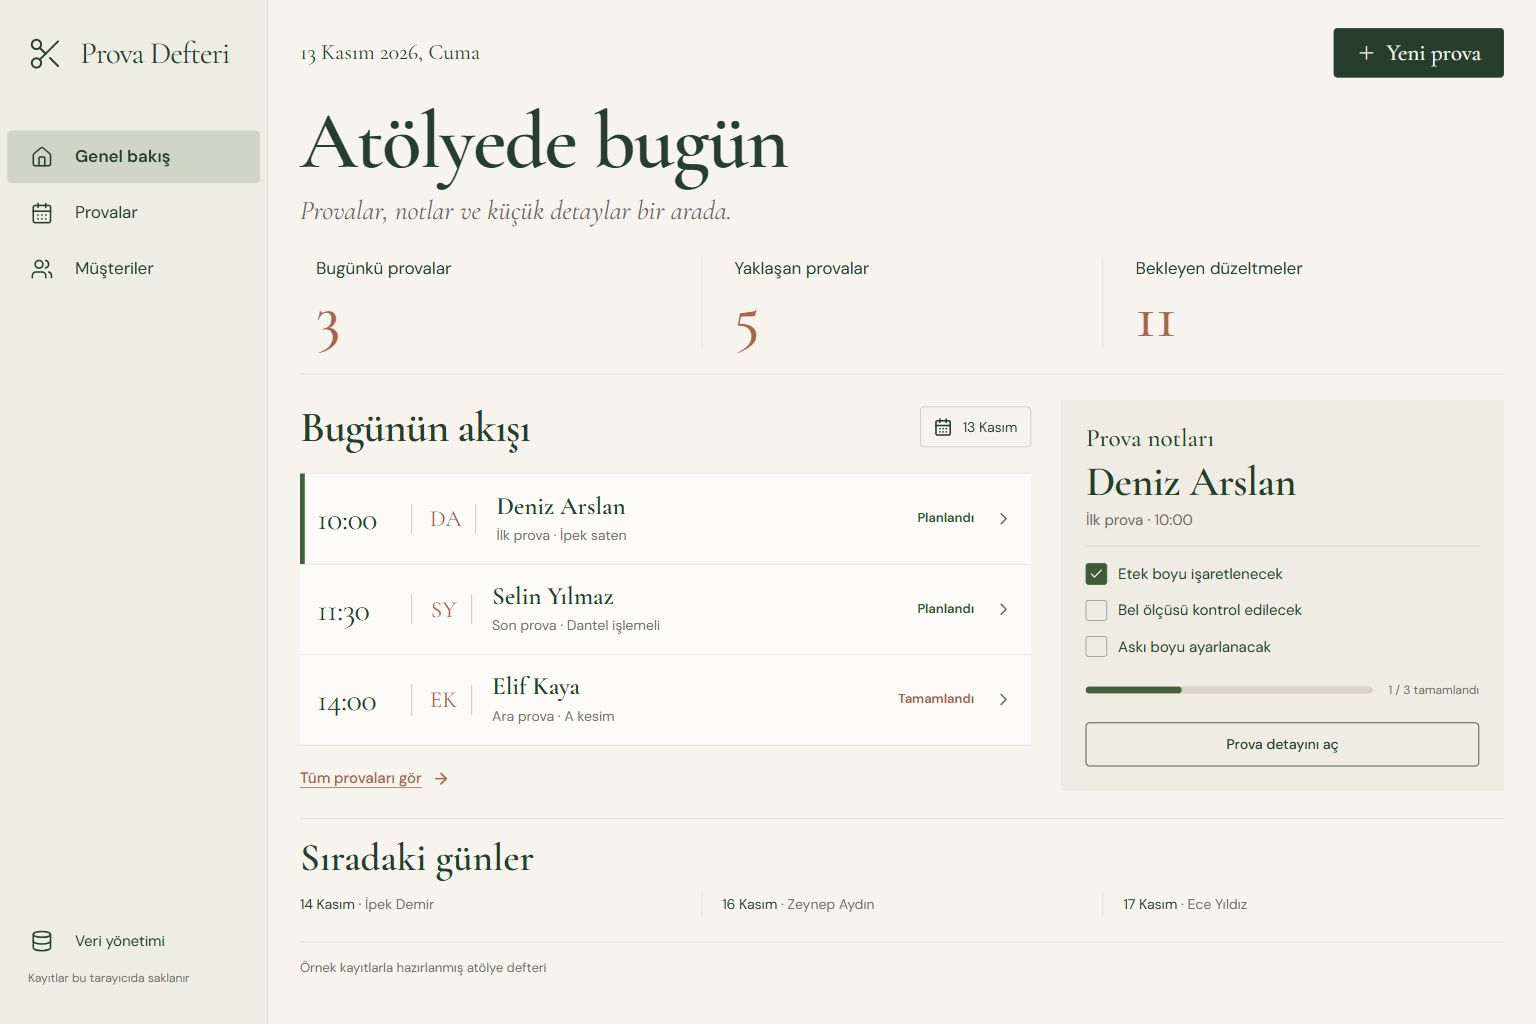
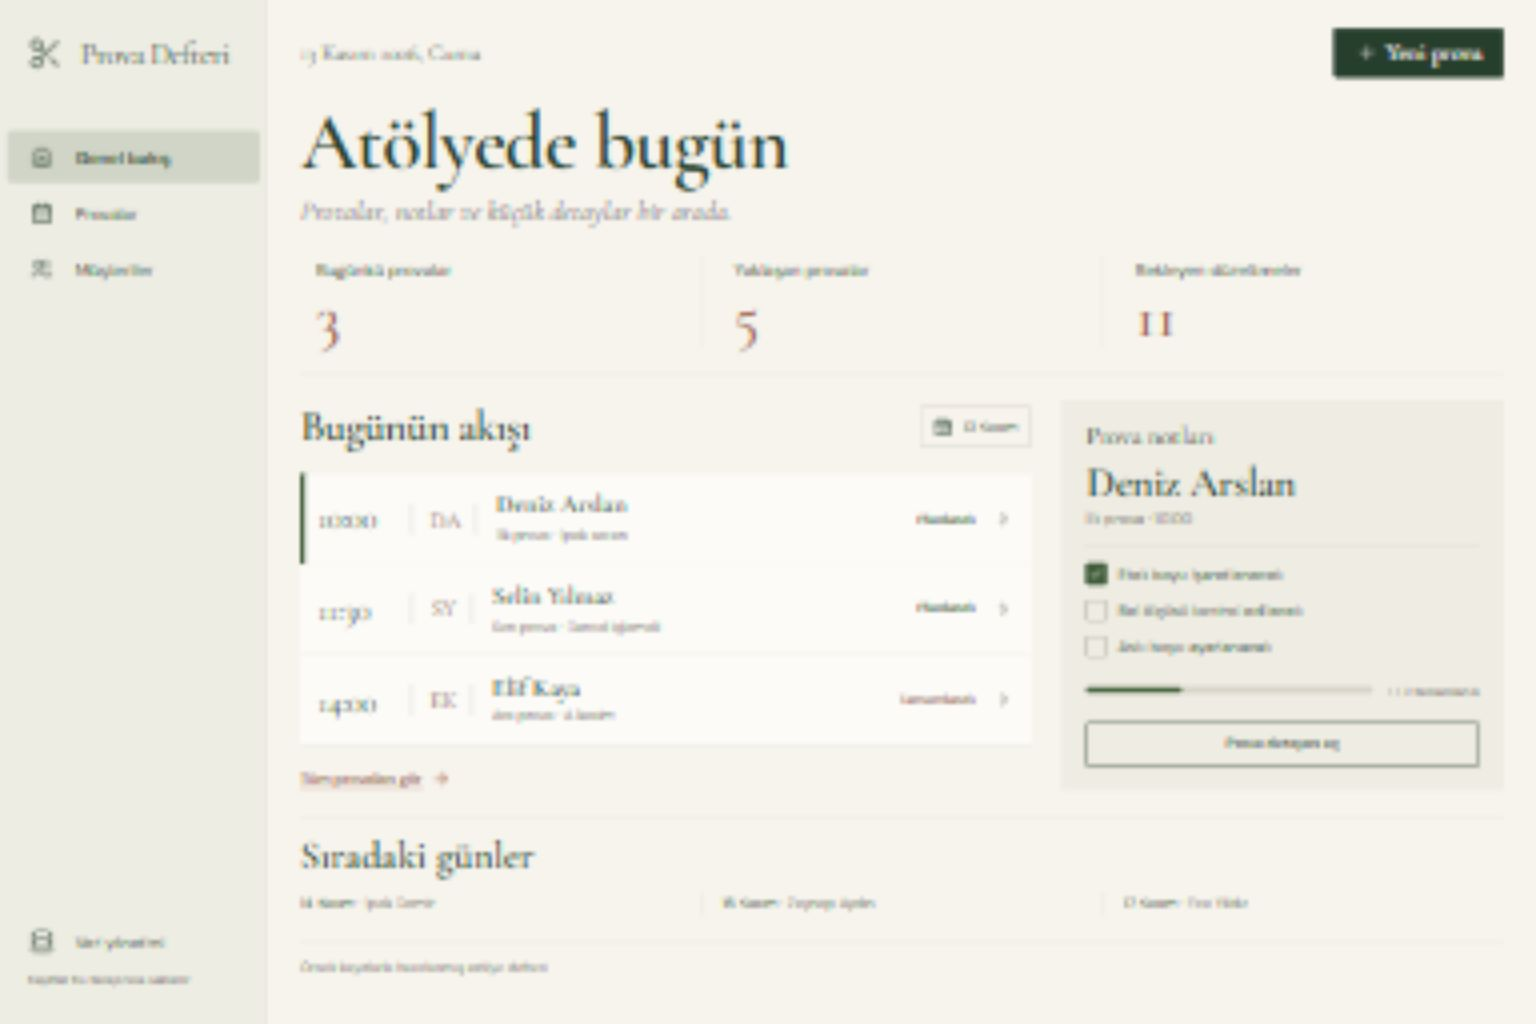
Update Site source

diff --git a/docs/TESLIM_KONTROLU.md b/docs/TESLIM_KONTROLU.md
@@ -1,6 +1,6 @@
 # Prova Defteri - Yönerge ve Teslim Kontrolü
 
-Bu belge, Web Geliştirme ve Yapay Zekâ proje yönergesinin gerekliliklerini somut teslimlere eşler. Dosya yolları proje köküne göredir. **Yerel uygulama, otomatik kontroller ve ekran görüntüleri hazırdır.** GitHub deposuna kaynak aktarımı ve canlı yayın henüz tamamlandı olarak işaretlenmemiştir.
+Bu belge, Web Geliştirme ve Yapay Zekâ proje yönergesinin gerekliliklerini somut teslimlere eşler. Dosya yolları proje köküne göredir. **Uygulama, otomatik kontroller, ekran görüntüleri, herkese açık kaynak deposu ve canlı yayın hazırdır.** GitHub Pages yayını HTTP ve tarayıcı üzerinden doğrulandı.
 
 ## Yönerge gereklilikleri
 
@@ -16,8 +16,8 @@ Bu belge, Web Geliştirme ve Yapay Zekâ proje yönergesinin gerekliliklerini so
 | README'de AI'ın hangi aşamada ne yaptığını açıklamak | `README.md`; `docs/AI_KULLANIMI.md` | Tamam; gerçekleştirilen geliştirme ve test aşamaları kayıtlı. |
 | En az bir uygulama ekran görüntüsü | `screenshots/desktop.jpg` | Tamam; 1.536 piksel masaüstü görünümü README'ye eklendi. |
 | Ek mobil ekran görüntüsü | `screenshots/mobile.jpg` | Tamam; 390 piksel mobil görünümü README'ye eklendi. |
-| Herkese açık GitHub depo bağlantısı | [kardelenaldemir/prova-defteri](https://github.com/kardelenaldemir/prova-defteri) | Herkese açık depo oluşturuldu; kaynak kod aktarımı ve son erişim kontrolü bekleniyor. |
-| Canlı uygulama bağlantısı | Gerçek yayın URL'si | Henüz oluşturulmadı. Yayın sonrasında erişim kontrolü yapılacak. |
+| Herkese açık GitHub depo bağlantısı | [kardelenaldemir/prova-defteri](https://github.com/kardelenaldemir/prova-defteri) | Tamam; kaynak kod `main` dalına aktarıldı. GitHub API'sinde `private: false`, varsayılan dal `main`. |
+| Canlı uygulama bağlantısı | [Prova Defteri](https://kardelenaldemir.github.io/prova-defteri/) | Tamam; Pages derlemesi `built`, anonim HTTP isteği 200. CUA/IAB'de arayüz ve Müşteriler ekranı açıldı. |
 
 Uygulama içinde AI API'si/modeli bulunması yönergenin bir koşulu olarak ele alınmamıştır. LocalStorage, bu proje için seçilen veri saklama yöntemidir. Üç ekran ve iki ekran görüntüsü, projenin uygulama tercihidir; yönergede zorunlu ekran sayısı veya iki ekran görüntüsü şartı olduğu ileri sürülmez.
 
@@ -39,8 +39,9 @@ Uygulama içinde AI API'si/modeli bulunması yönergenin bir koşulu olarak ele 
 - [x] Mobil ekran görüntüsü kaydedildi ve README'de gösterildi.
 - [x] README ve AI kullanım belgesi gerçek uygulama/test sonuçlarıyla güncellendi.
 - [x] Herkese açık GitHub deposu oluşturuldu.
-- [ ] Kaynak kod GitHub'a aktarıldı ve depo içeriği kontrol edildi.
-- [ ] Canlı yayın bağlantısı erişim kontrolü yapılarak README'ye eklendi.
+- [x] Kaynak kod GitHub'ın `main` dalına aktarıldı; depo API'sinden herkese açık olduğu doğrulandı.
+- [x] GitHub Pages adresi oluşturuldu ve README'ye eklendi.
+- [x] Canlı yayının HTTP/tarayıcı erişimi doğrulandı.
 
 ## Son doğrulama kaydı
 
@@ -56,7 +57,9 @@ Uygulama içinde AI API'si/modeli bulunması yönergenin bir koşulu olarak ele 
 | Veri saklama | Yenileme sonrası müşteri/prova ve düzeltme değişiklikleri korundu. |
 | İlişkili kayıtlar | Müşteri silme ve bağlı provaların kaldırılması kontrol edildi. |
 | JSON yedek mantığı | Dışa/içe aktarma turu, sürüm ve alan doğrulama, bozuk veri, ilişki kontrolü ve geri yükleme/yazma hatası senaryoları otomatik testlerden geçti. |
+| Kaynak depo | Kaynak kod `main` dalına aktarıldı; GitHub API yanıtında `private: false` ve `default_branch: main`. |
+| Canlı yayın | GitHub Pages son derleme durumu `built`; `public: true`, kaynak dal `gh-pages`. Anonim HTTP 200; tarayıcıda Genel Bakış ve Müşteriler açıldı, konsol hata/uyarı listesi boş. |
 
 **Doğrulama sınırı:** Tarayıcı otomasyon aracı indirme etkileşiminde takıldığı için JSON yedek dosyasını kullanıcı arayüzünden indirme akışı doğrulanamadı. Yedek içeriği ve geri yükleme mantığı otomatik testlerde doğrulandı; bu sonuç, tarayıcıdan dosya indirme akışının da test edildiği anlamına gelmez.
 
-**Bekleyen teslim adımları:** GitHub'a kaynak kod aktarımı ve gerçek canlı yayın adresinin erişim kontrolü. Canlı adres doğrulanmadan tamamlandı olarak işaretlenmez.
+**Teslim durumu:** Kaynak depo ve canlı demo hesap girişi olmadan HTTP 200 döndü. Son masaüstü ekran görüntüsü canlı yayından kaydedildi. Yukarıdaki yedek indirme doğrulaması dışında açık kalite kontrol adımı yoktur.

diff --git a/README.md b/README.md
@@ -44,6 +44,12 @@ npm run build
 npm run preview
 ```
 
+GitHub Pages'te `/prova-defteri/` alt yoluna yayın için:
+
+```sh
+npm run build -- --base=/prova-defteri/
+```
+
 Otomatik kontroller için:
 
 ```sh
@@ -74,8 +80,8 @@ Geliştirmede **OpenAI Codex** asistanı kullanıldı. Problem ve kapsamın beli
 |---|---|
 | Masaüstü ekran görüntüsü | `screenshots/desktop.jpg`; 1.536 piksel genişlikte kontrol edildi. |
 | Mobil ekran görüntüsü | `screenshots/mobile.jpg`; 390 piksel genişlikte kontrol edildi. |
-| Herkese açık GitHub deposu | [kardelenaldemir/prova-defteri](https://github.com/kardelenaldemir/prova-defteri); depo oluşturuldu, kaynak kod aktarımı sürüyor. |
-| Canlı uygulama | Henüz oluşturulmadı; yayın ve erişim kontrolünden sonra gerçek adres eklenecek. |
+| Herkese açık GitHub deposu | [kardelenaldemir/prova-defteri](https://github.com/kardelenaldemir/prova-defteri); kaynak kod `main` dalına aktarıldı. |
+| Canlı uygulama | [Prova Defteri](https://kardelenaldemir.github.io/prova-defteri/); yayın tamamlandı, HTTP 200 ve tarayıcıda çalışan arayüz doğrulandı. |
 
 Masaüstü görünümü:
 

diff --git a/docs/AI_KULLANIMI.md b/docs/AI_KULLANIMI.md
@@ -38,7 +38,7 @@ Aşağıdaki maddeler konuşmanın kelimesi kelimesine dökümü değil, gelişt
 7. Masaüstü ve mobil görünümü; form kullanımı, çekmece, taşma ve klavye erişimi açısından incele.
 8. Üretim derlemesini, otomatik kontrolleri, herkese açık depo erişimini ve canlı yayını doğrula.
 
-**Sonuç:** `npm test` ile 14/14 test geçti; `npm run typecheck` ve `npm run build` başarılı. Ekran görüntüleri `screenshots/desktop.jpg` ve `screenshots/mobile.jpg` dosyalarındadır. Canlı yayın, erişim doğrulaması tamamlandığında teslim kontrolüne işlenecektir.
+**Sonuç:** `npm test` ile 14/14 test geçti; `npm run typecheck` ve `npm run build` başarılı. Ekran görüntüleri `screenshots/desktop.jpg` ve `screenshots/mobile.jpg` dosyalarındadır. Kaynak kod [herkese açık GitHub deposuna](https://github.com/kardelenaldemir/prova-defteri) aktarıldı. [GitHub Pages yayını](https://kardelenaldemir.github.io/prova-defteri/) tamamlandı; HTTP 200 ve tarayıcıda çalışan arayüz doğrulandı.
 
 ## Geliştiricinin rolü
 

diff --git a/docs/PROJE_PLANI.md b/docs/PROJE_PLANI.md
@@ -49,6 +49,8 @@ Proje bağımsız bir React uygulaması olarak geliştirilir. Üç ekran, bu iş
 
 Bu adımlar çalışma sırasını belirtir; yönergede bulunmayan bir teslim süresi veya tarih şartı eklemez.
 
+Yerel uygulama, testler ve ekran görüntüleri hazırdır. Kaynak kod [herkese açık GitHub deposunun](https://github.com/kardelenaldemir/prova-defteri) `main` dalına aktarıldı. [GitHub Pages yayını](https://kardelenaldemir.github.io/prova-defteri/) tamamlandı; HTTP 200 ve tarayıcı erişimi doğrulandı.
+
 ## Kapsam sınırı
 
 Kimlik doğrulama, çok kullanıcılı eşitleme, ödeme, SMS gönderimi ve otomatik AI önerisi bu çalışmanın kapsamına dahil değildir. Atölye Nabzı Python modeli bu web uygulamasına bağlanmaz; iki proje farklı eğitim çıktılarını karşılar.
